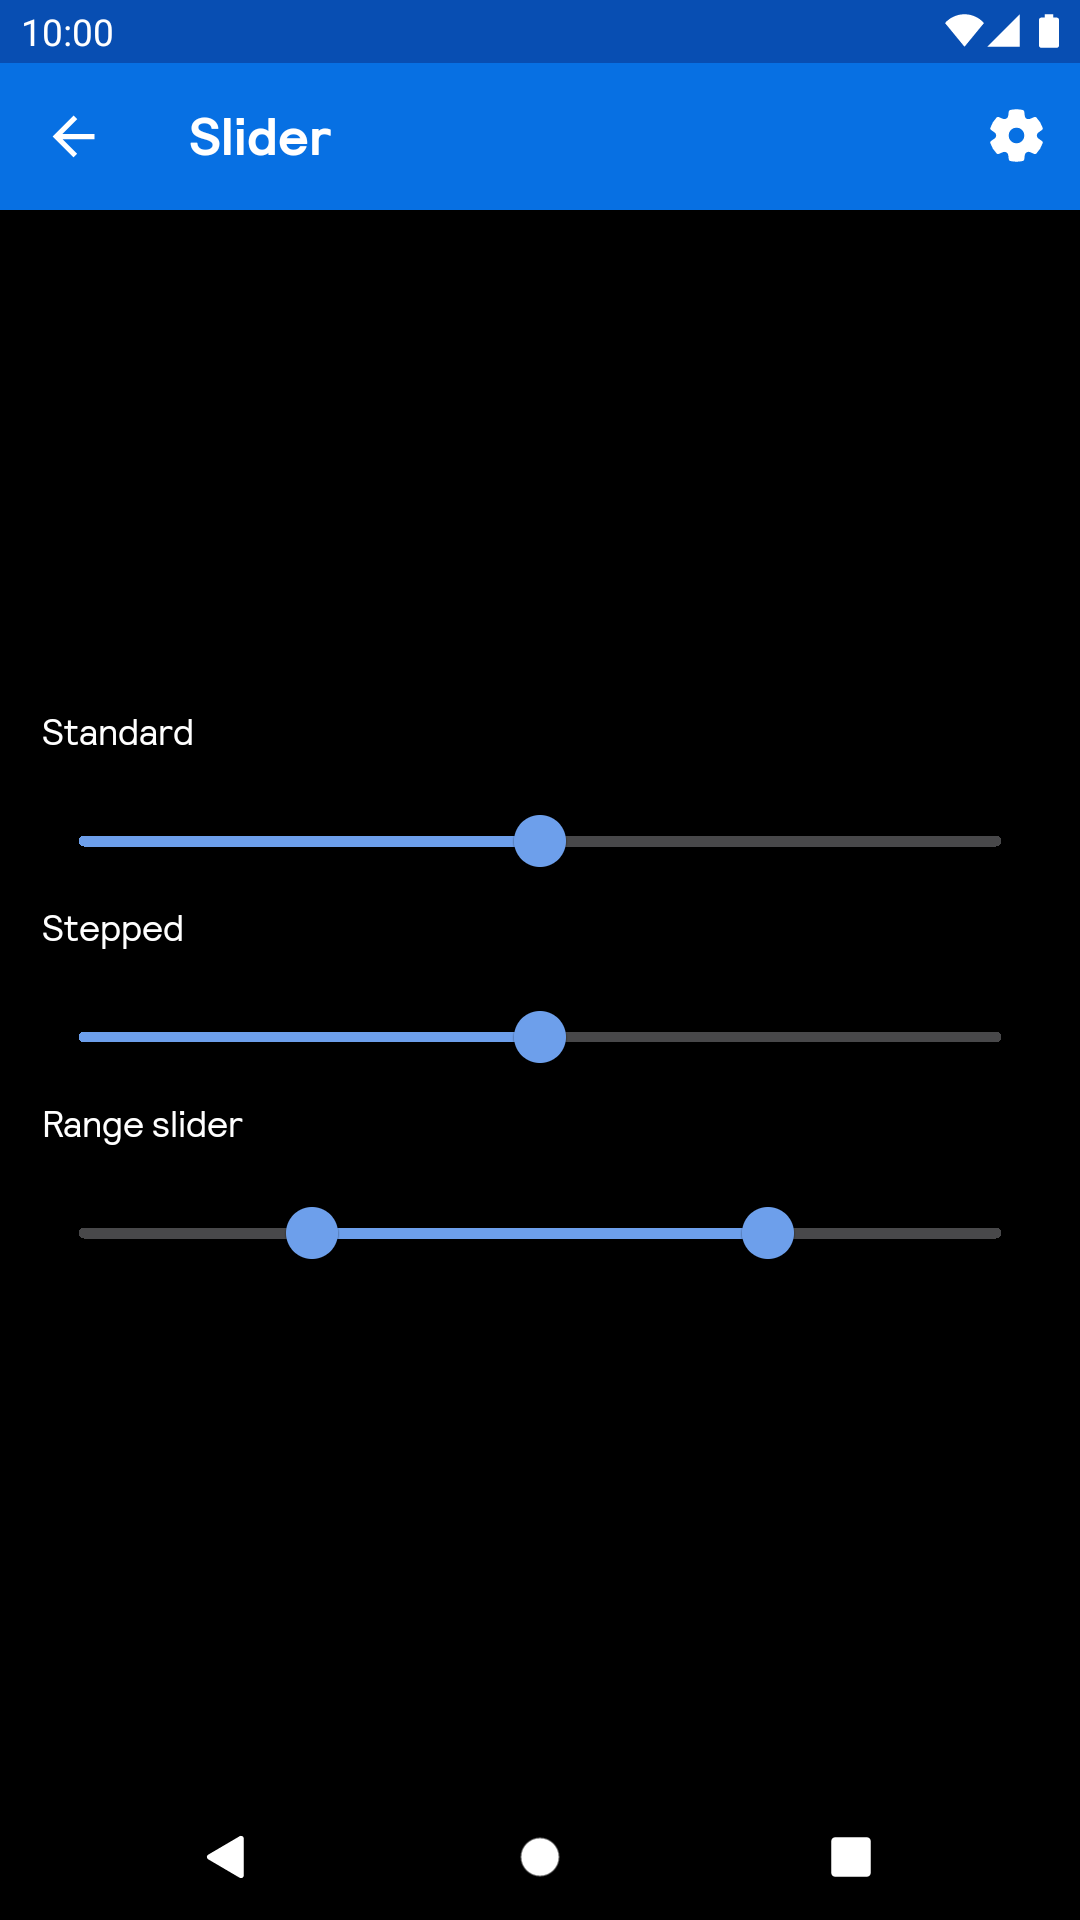
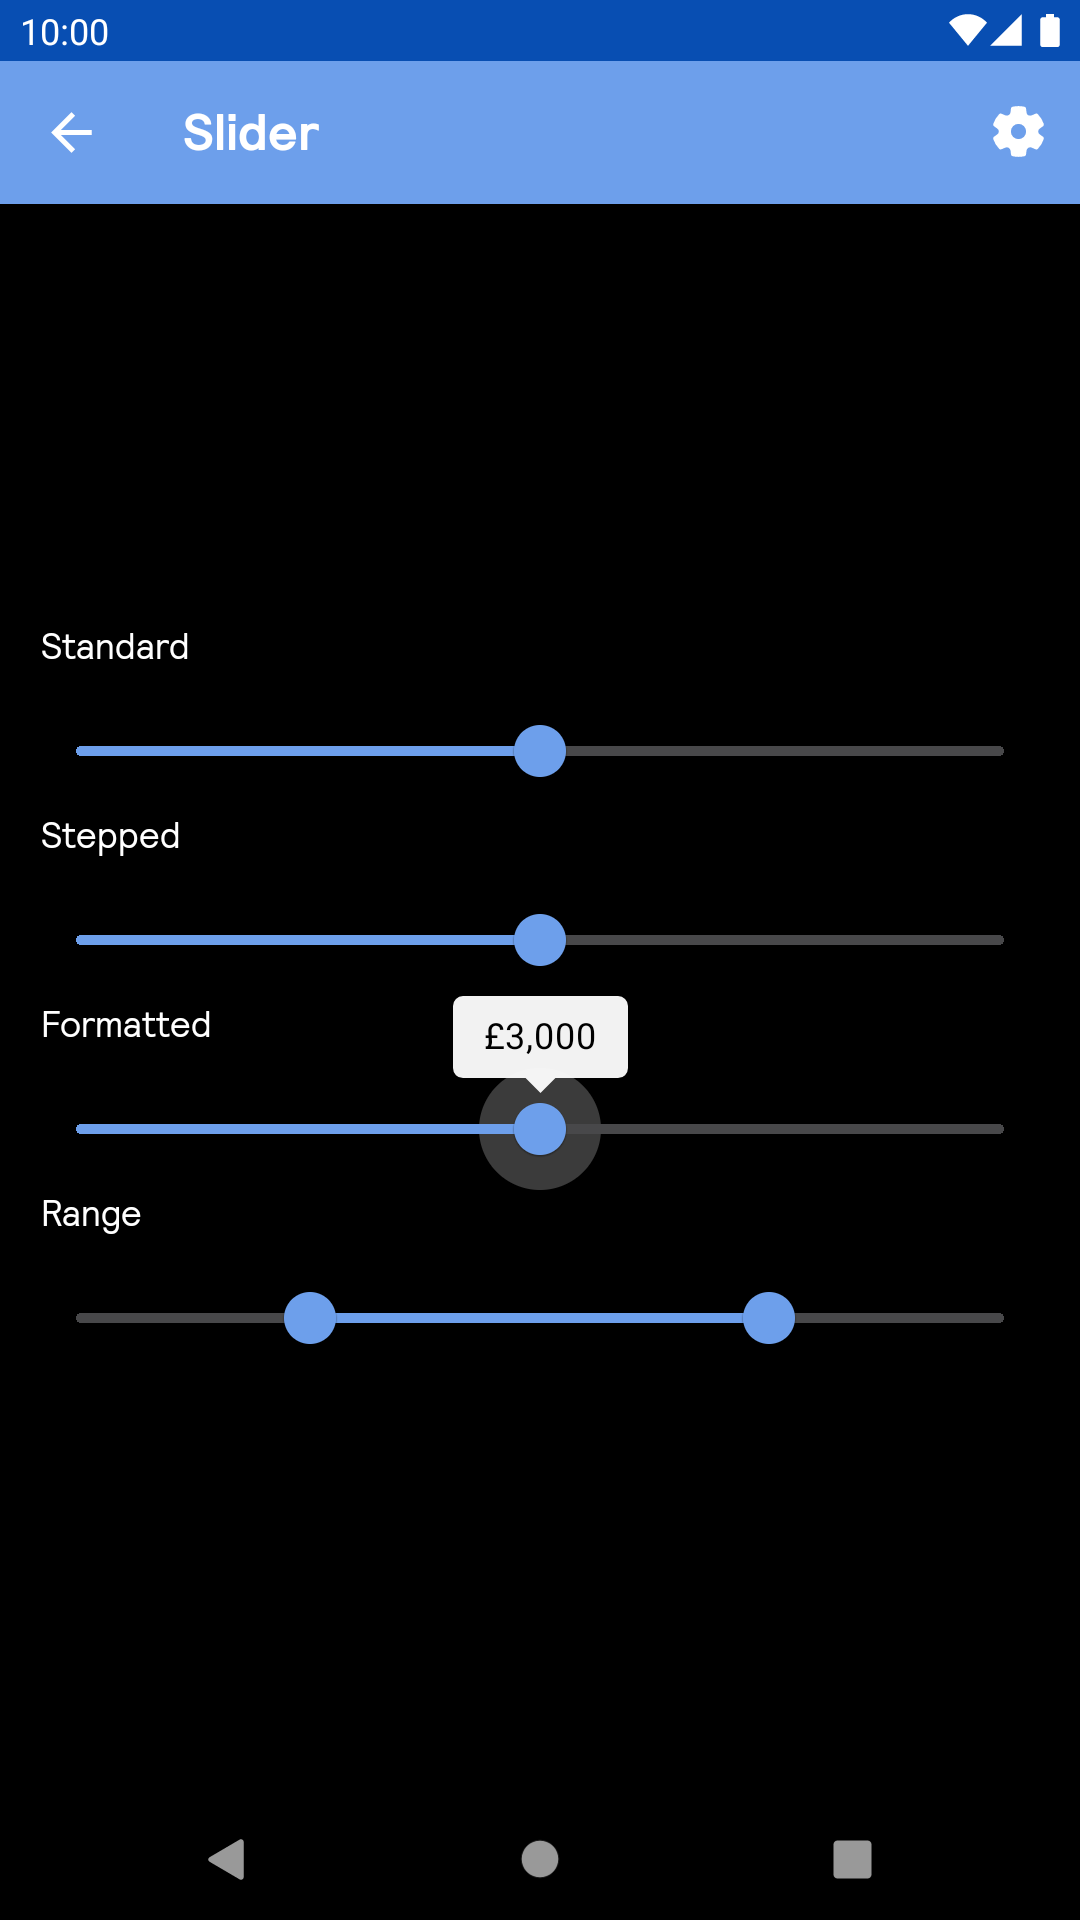
Add docs for slider with formatted label

diff --git a/docs/Slider/README.md b/docs/Slider/README.md
@@ -67,3 +67,23 @@ BpkSlider(context).apply {
 }
 ```
 
+Example of a slider with formatted label in Kotlin
+
+```Kotlin
+import net.skyscanner.backpack.slider.BpkSlider
+import java.text.NumberFormat
+import java.util.*
+
+BpkSlider(context).apply {
+   valueFrom = 1000f
+   valueTo = 5000f
+   value = 3000f
+   stepSize = 10f
+   setLabelFormatter { value: Float ->
+     val format = NumberFormat.getCurrencyInstance()
+     format.maximumFractionDigits = 0
+     format.currency = Currency.getInstance("GBP")
+     format.format(value.toDouble())
+   }
+}
+```
